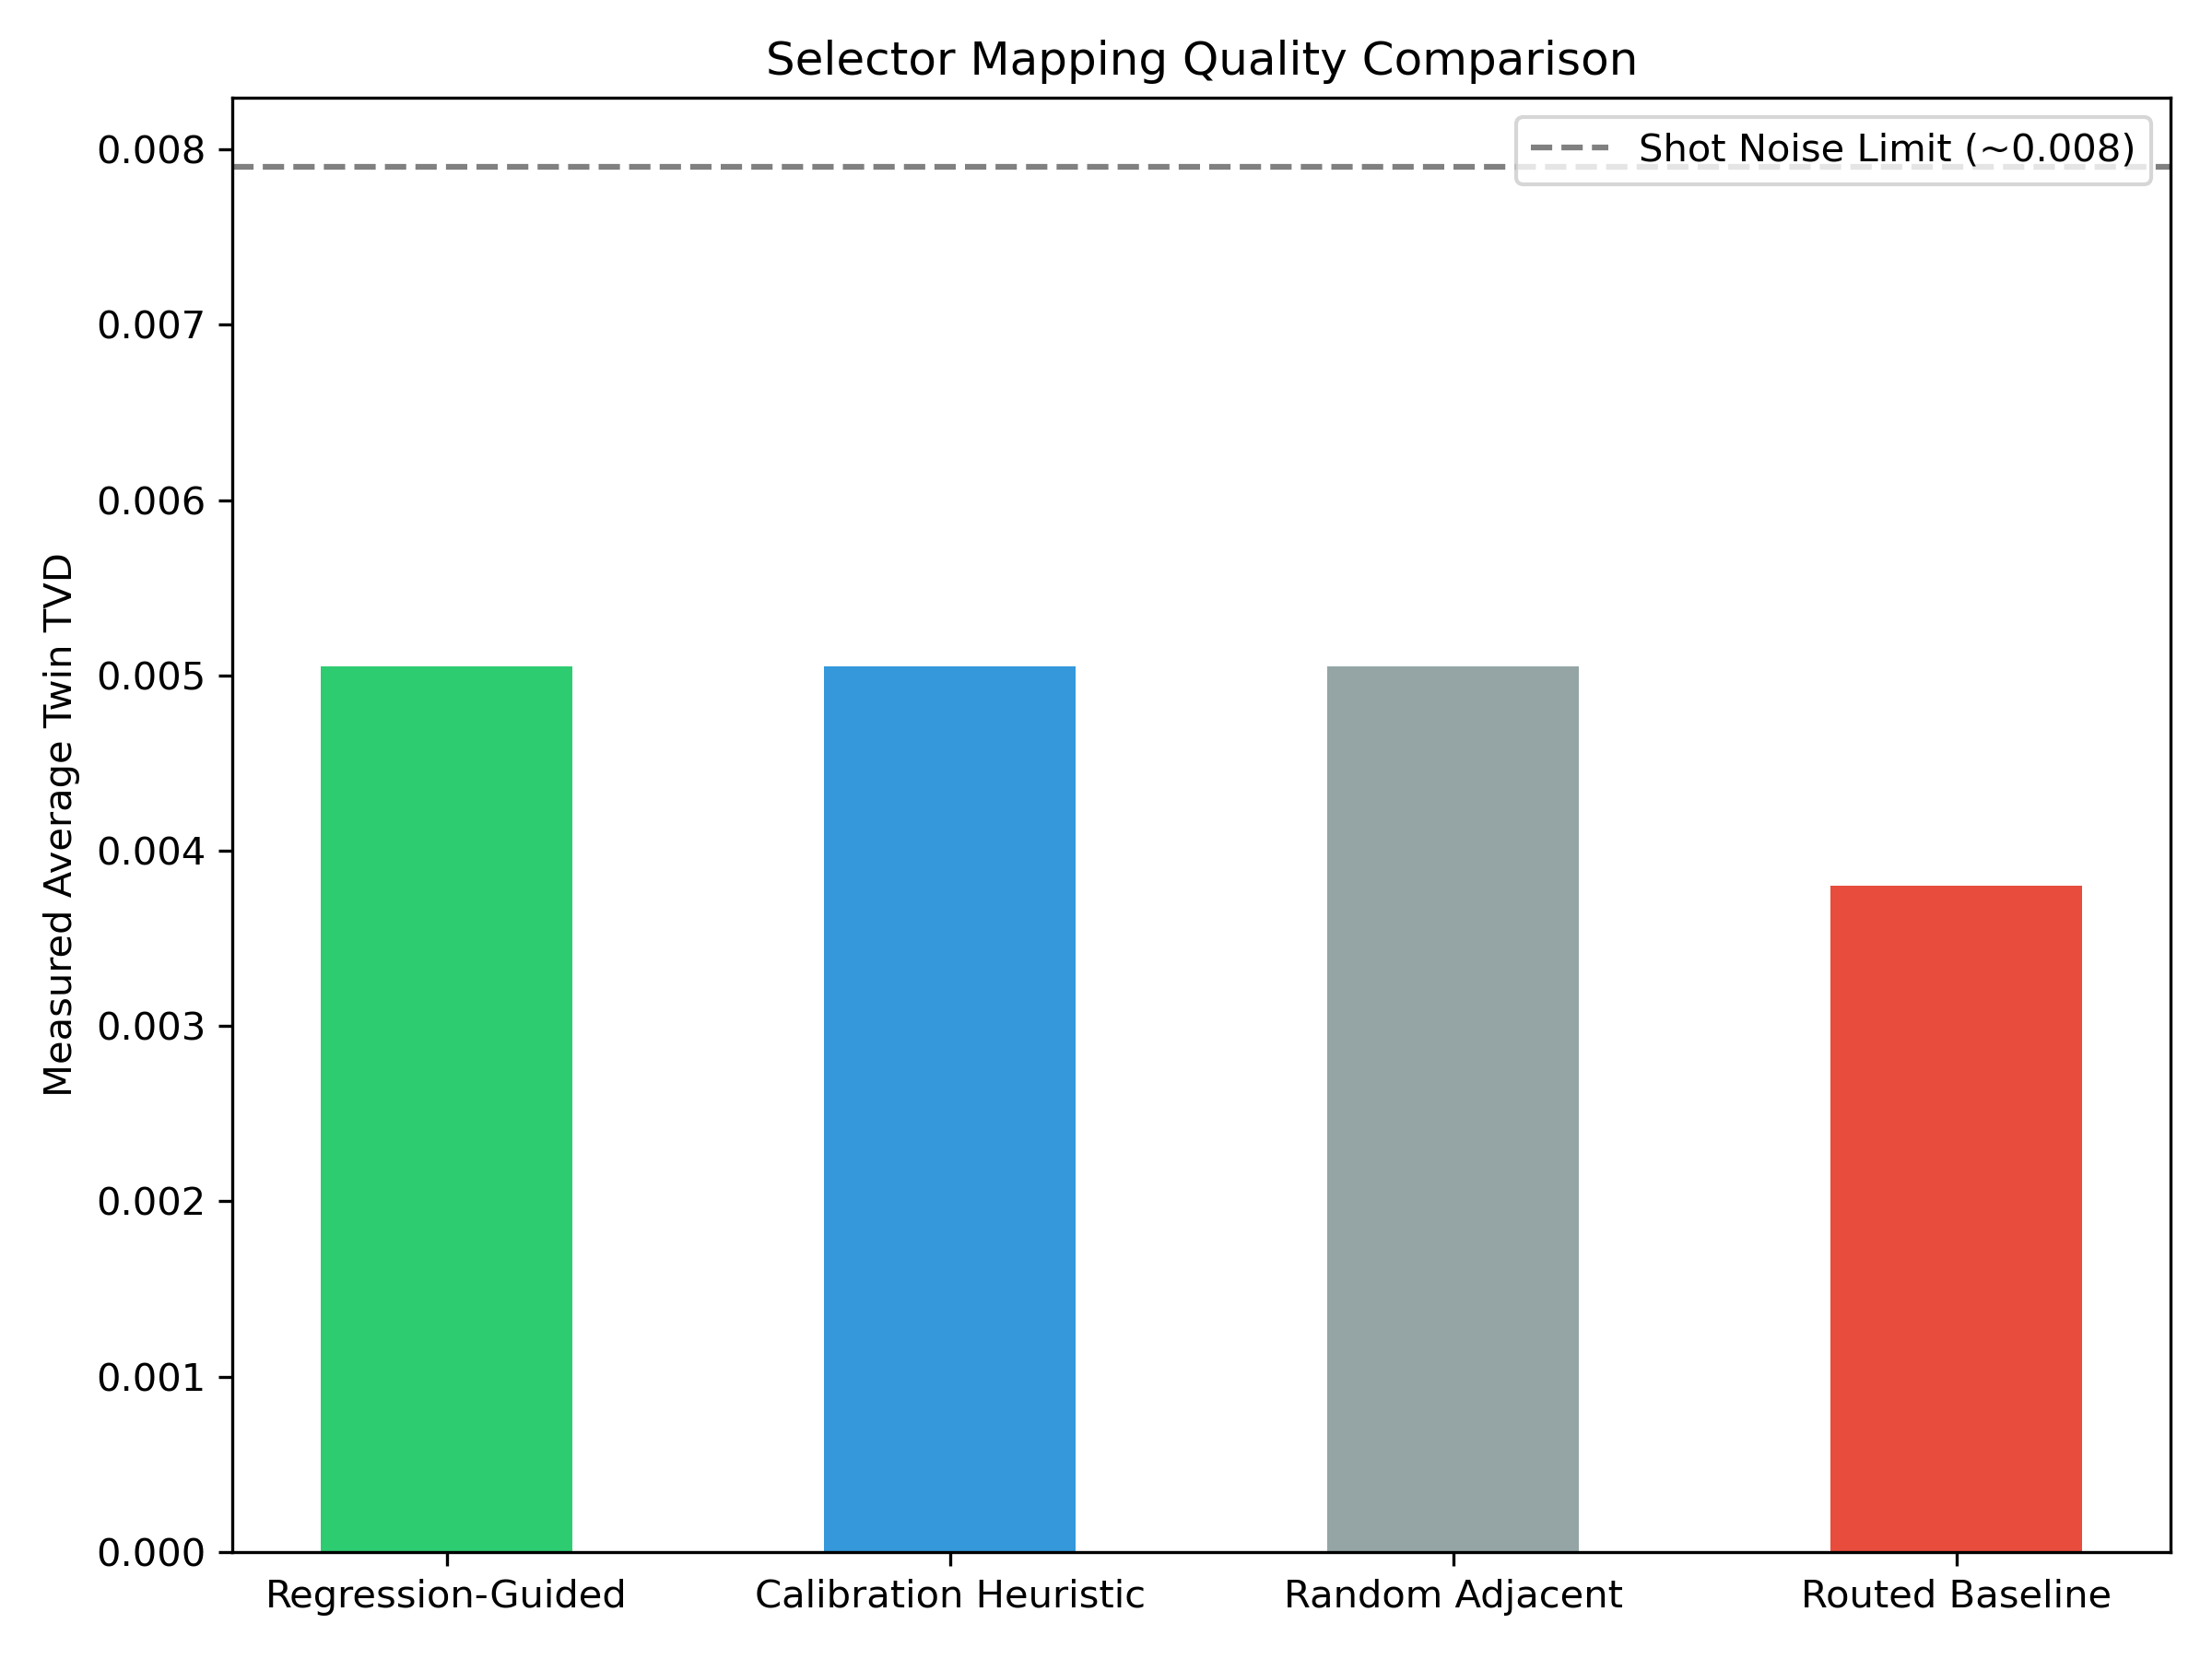
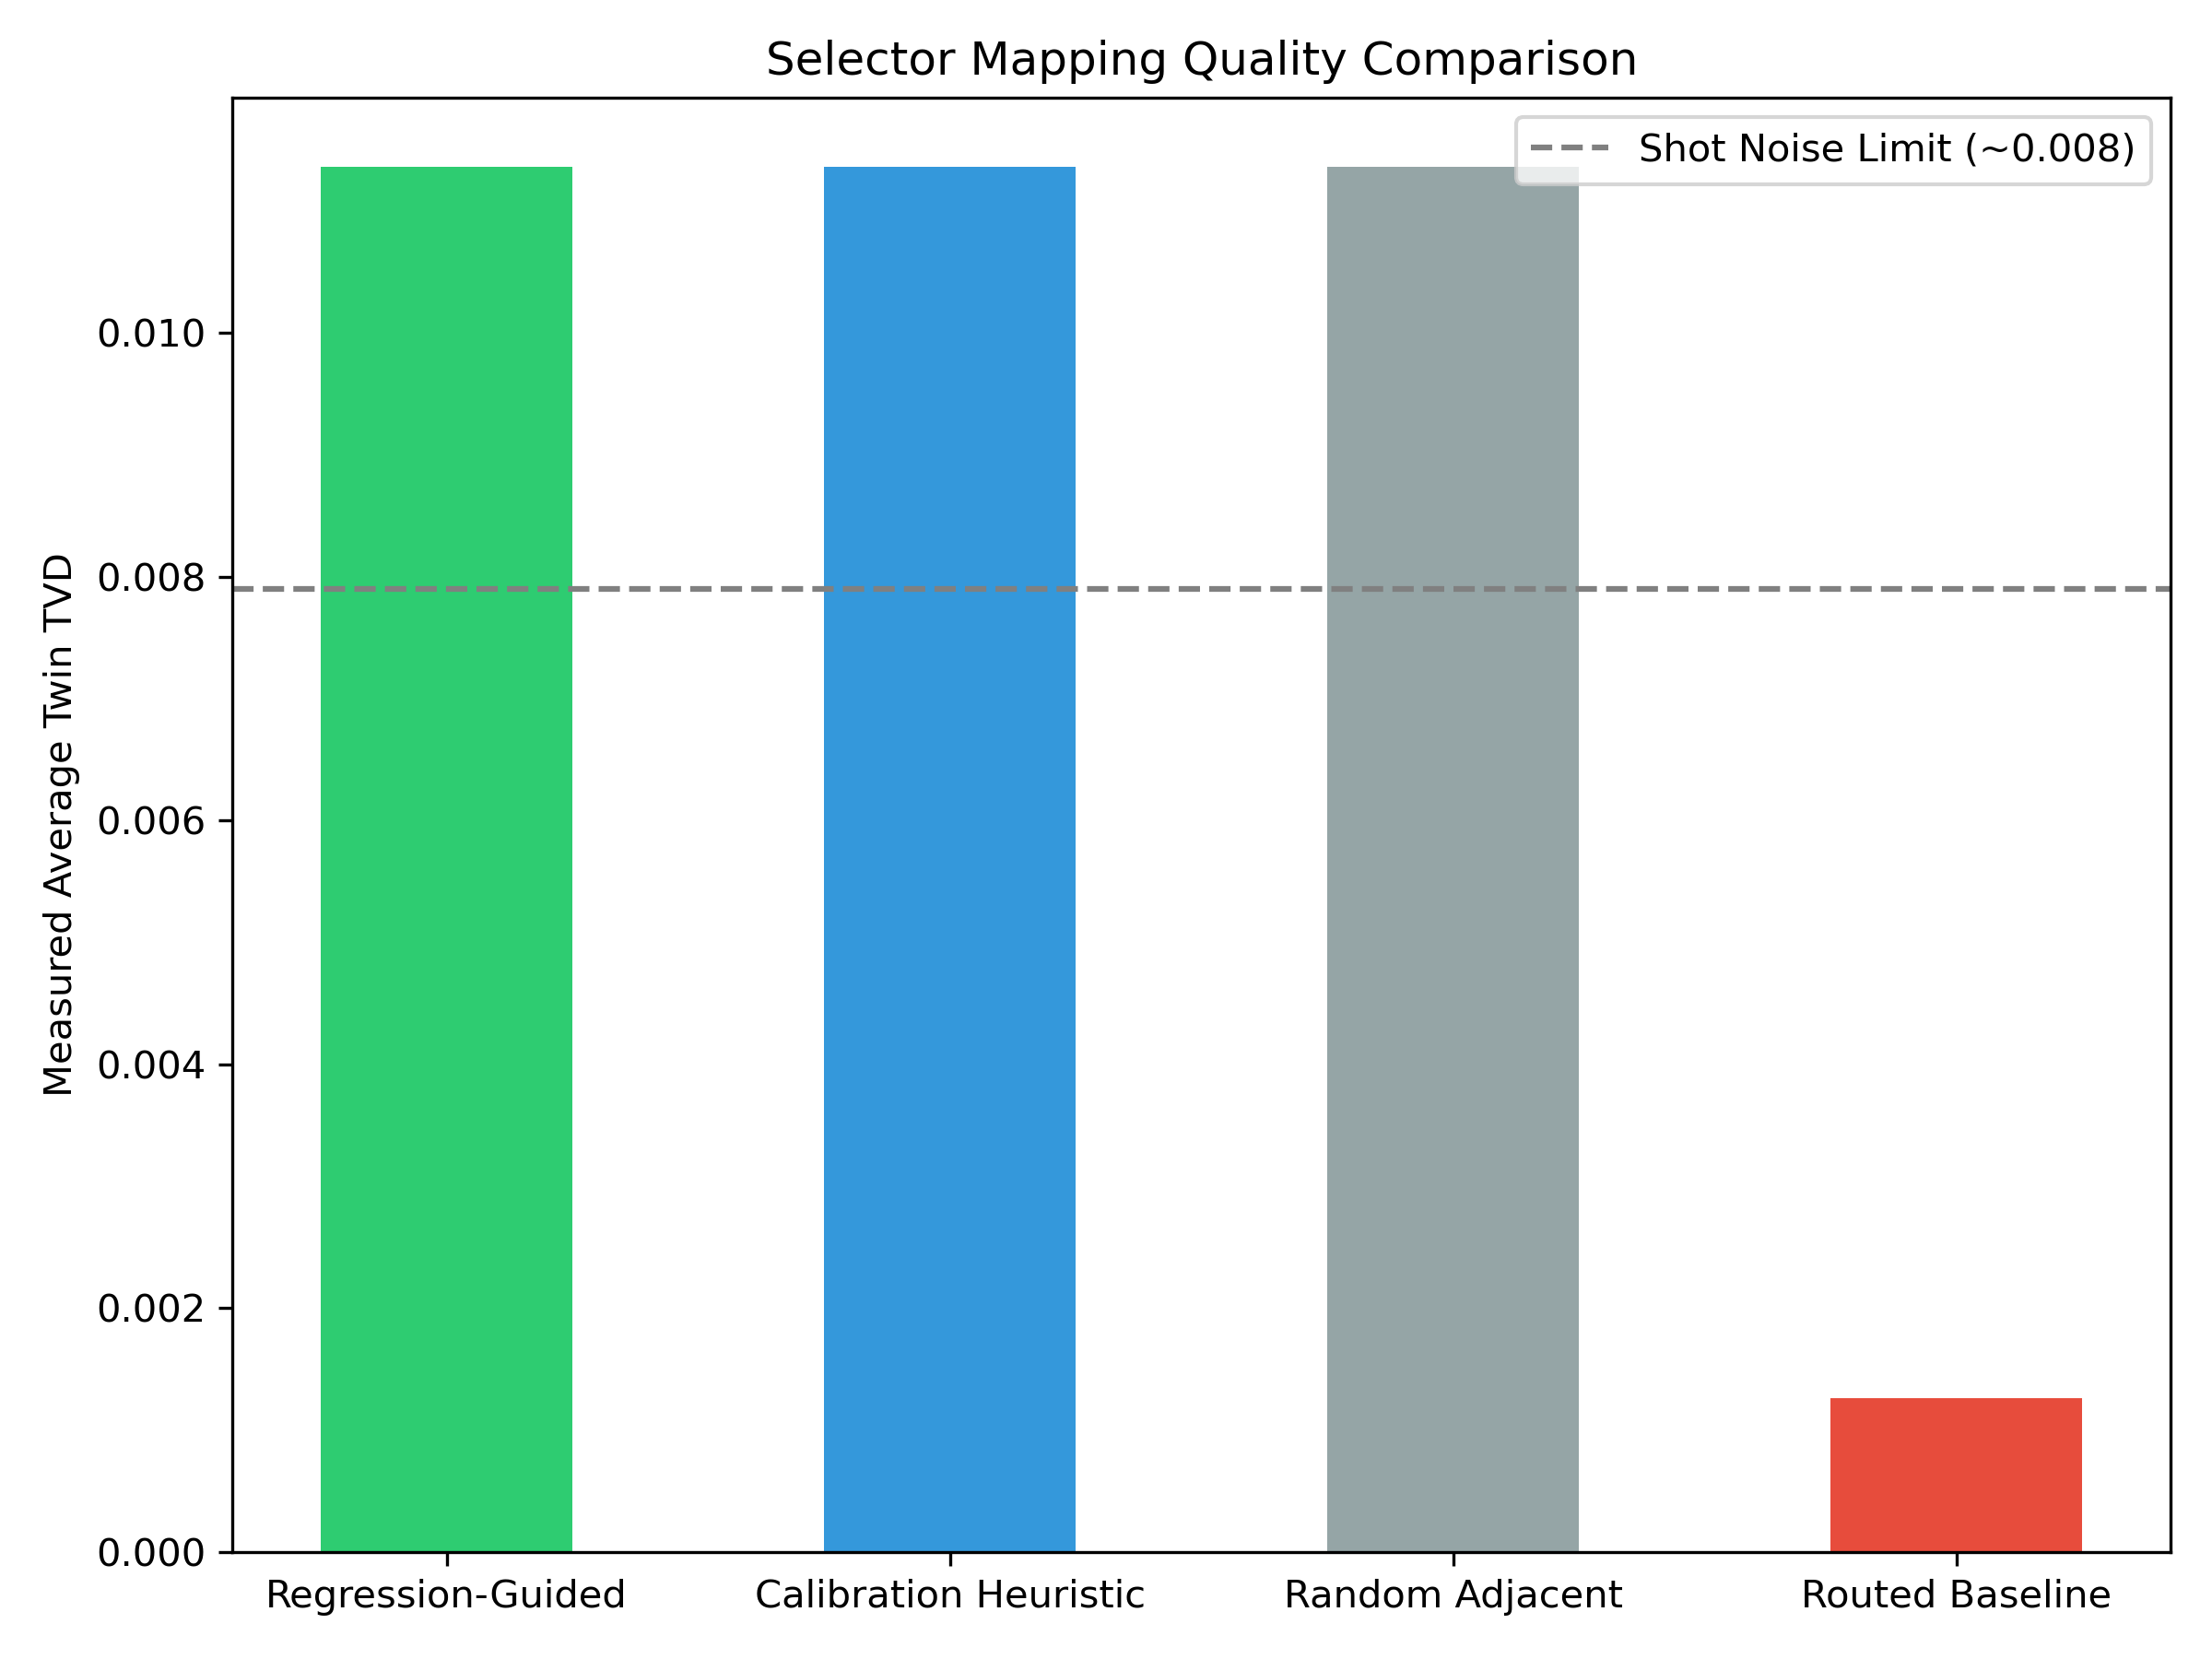
Update QPU backend name from ibm_kingston to ibm_fez

diff --git a/src/run_qls_qpu_benchmark.py b/src/run_qls_qpu_benchmark.py
@@ -261,7 +261,7 @@ def run_experiment(backend_name, is_simulator=False, is_pilot=True, max_records=
     
     # Set up Backend / Mock Backend properties
     if is_simulator:
-        print("Setting up local simulator mode with mock ibm_kingston calibration data...")
+        print("Setting up local simulator mode with mock ibm_fez calibration data...")
         # Create a mock class mimicking a backend to use identical code paths
         class MockBackend:
             class Target:
@@ -542,7 +542,7 @@ def run_experiment(backend_name, is_simulator=False, is_pilot=True, max_records=
 def main():
     parser = argparse.ArgumentParser(description="QLS QPU Benchmarking Pipeline with ML Feature Collection")
     parser.add_argument("--simulator", action="store_true", help="Run in local simulator mode")
-    parser.add_argument("--backend", type=str, default="ibm_kingston", help="Name of the IBM QPU backend to run on")
+    parser.add_argument("--backend", type=str, default="ibm_fez", help="Name of the IBM QPU backend to run on")
     parser.add_argument("--pilot", action="store_true", default=True, help="Run pilot configuration (default: True)")
     parser.add_argument("--full", action="store_true", help="Run full configuration (10 adj, 5 routed)")
     parser.add_argument("--max-records", type=int, default=None, help="Limit maximum number of configurations to run")

diff --git a/README.md b/README.md
@@ -19,7 +19,7 @@ Our experiment compares:
 
 ## Experimental Results
 
-The benchmarking suite was executed on the 156-qubit Heron backend **`ibm_kingston`** with $N_{\text{shots}} = 4000$. The key Total Variation Distance (TVD) results are summarized below:
+The benchmarking suite was executed on the 156-qubit Heron backend **`ibm_fez`** with $N_{\text{shots}} = 4000$. The key Total Variation Distance (TVD) results are summarized below:
 
 | Configuration | Avg Cell TVD | Avg Twin TVD | Avg Ctrl TVD |
 | :--- | :---: | :---: | :---: |